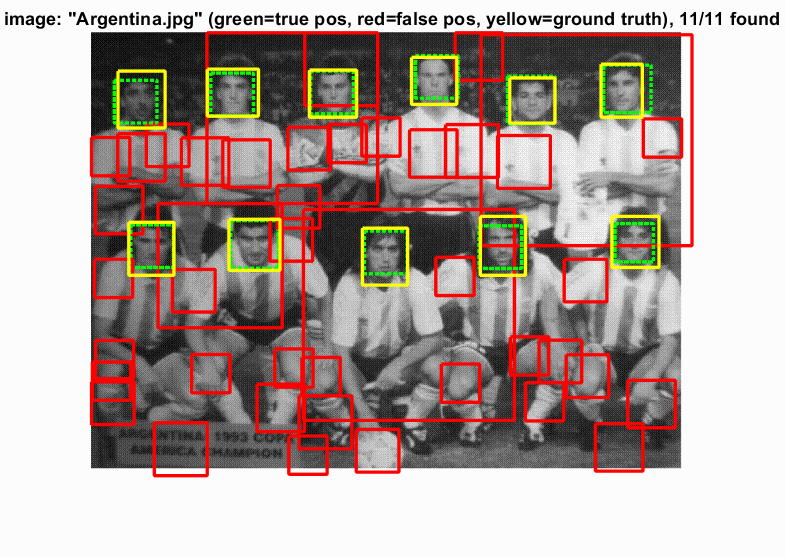
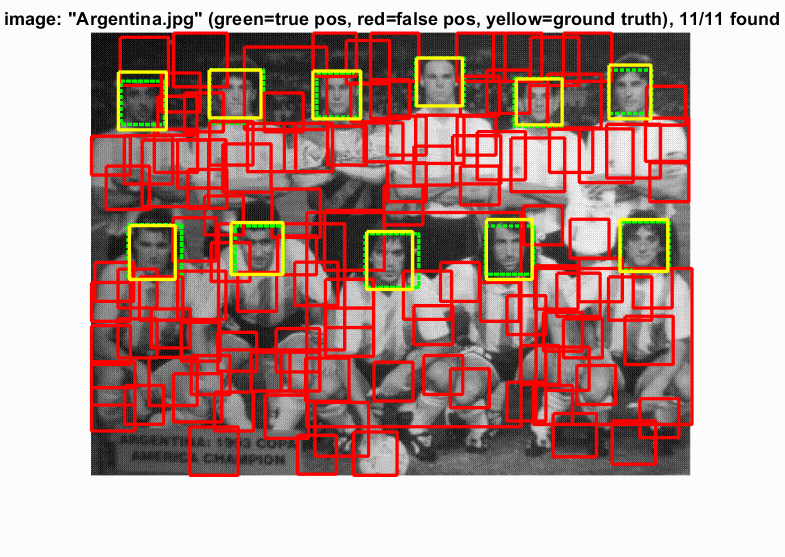
3 hog cell size.

diff --git a/Assignment 3/code/run_detector.m b/Assignment 3/code/run_detector.m
@@ -149,37 +149,32 @@ for i = 1:30
     scale = scale * 0.9;
     % scale the image
     scaled_img = imresize(img, scale);
-   
-    for pad_x = 1:hog_cell_size-1
-        for pad_y = 1:hog_cell_size-1
-            % calculate the hog for whole scaled image
-            hog = vl_hog(im2single(scaled_img(pad_x:end, pad_y:end)),...
-                hog_cell_size);
-            % get dimensions of hog matrix
-            [size_y, size_x, ~] = size(hog);
-
-            % iterate over all patches
-            for x = 1:(size_x - size_patch + 1)
-                for y = 1:(size_y - size_patch + 1)
-                    % get hog of the patch from hog of the image
-                    hog_of_patch = hog(y:y+size_patch-1, x:x+size_patch-1, :);
-                    % vectorize the hog for multiplication
-                    hog_row_vector = hog_of_patch(:)';
-                    % check for face detection      
-                    confidence = hog_row_vector * w + b;
-                    if confidence >= 2
-                        cur_bboxes = [pad_x + (x-1)*hog_cell_size/scale,...
-                            pad_y+(y-1)*hog_cell_size/scale,...
-                            pad_x-1+(hog_template_size+(x-1)*hog_cell_size)/scale,...
-                            pad_y-1+(hog_template_size+(y-1)*hog_cell_size)/scale...
-                            ; cur_bboxes];
-                        cur_confidences = [ confidence ; cur_confidences];
-                    end
-
-                end
+    % calculate the hog for whole scaled image
+    hog = vl_hog(im2single(scaled_img), hog_cell_size);
+    % get dimensions of hog matrix
+    [size_y, size_x, ~] = size(hog);
+    
+    % iterate over all patches
+    for x = 1:(size_x - size_patch + 1)
+        for y = 1:(size_y - size_patch + 1)
+            % get hog of the patch from hog of the image
+            hog_of_patch = hog(y:y+size_patch-1, x:x+size_patch-1, :);
+            % vectorize the hog for multiplication
+            hog_row_vector = hog_of_patch(:)';
+            % check for face detection      
+            confidence = hog_row_vector * w + b;
+            if confidence >= 1
+                cur_bboxes = [1 + (x-1)*hog_cell_size/scale,...
+                    1+(y-1)*hog_cell_size/scale,...
+                    (hog_template_size+(x-1)*hog_cell_size)/scale,...
+                    (hog_template_size+(y-1)*hog_cell_size)/scale...
+                    ; cur_bboxes];
+                cur_confidences = [ confidence ; cur_confidences];
             end
-        end    
+            
+        end
     end
+
 end
     
 

diff --git a/Assignment 3/code/get_training_features.m b/Assignment 3/code/get_training_features.m
@@ -1,11 +1,11 @@
 function [features_pos, features_neg] = get_training_features...
     (train_path_pos, train_path_neg,hog_template_size,hog_cell_size)
 
-M = load('features_pos.mat');
-features_pos = M.features_pos;
-N = load('features_neg.mat');
-features_neg = N.features_neg;
-return 
+% M = load('features_pos.mat');
+% features_pos = M.features_pos;
+% N = load('features_neg.mat');
+% features_neg = N.features_neg;
+% return 
 %This function returns the hog features of all positive examples and for
 %negative examples
 
@@ -134,7 +134,7 @@ end
 
 image_files = dir( fullfile( train_path_neg, '*.jpg' ));
 num_images = length(image_files);
-num_samples = 200000;
+num_samples = 100000;
 
 % counter for stopping at num_samples
 sample_count = 0;
@@ -194,8 +194,8 @@ while sample_count < num_samples
     end
 end
 
- save('features_pos.mat', 'features_pos')
- save('features_neg.mat', 'features_neg')
+ save('features_pos.mat', 'features_pos', '-v7.3')
+ save('features_neg.mat', 'features_neg', '-v7.3')
 
 end
 

diff --git a/Assignment 3/code/proj3.m b/Assignment 3/code/proj3.m
@@ -25,7 +25,7 @@ test_label_path = fullfile(data_path,'test_scenes/ground_truth_bboxes.txt'); %th
 % Just make sure hog_template_size is divisible by hog_cell_size
 
 hog_template_size = 36;
-hog_cell_size = 6;
+hog_cell_size = 3;
 % TODO try with 3, 4, 9, 12, 18
 
 %% Step 1. Load positive training crops and random negative examples
